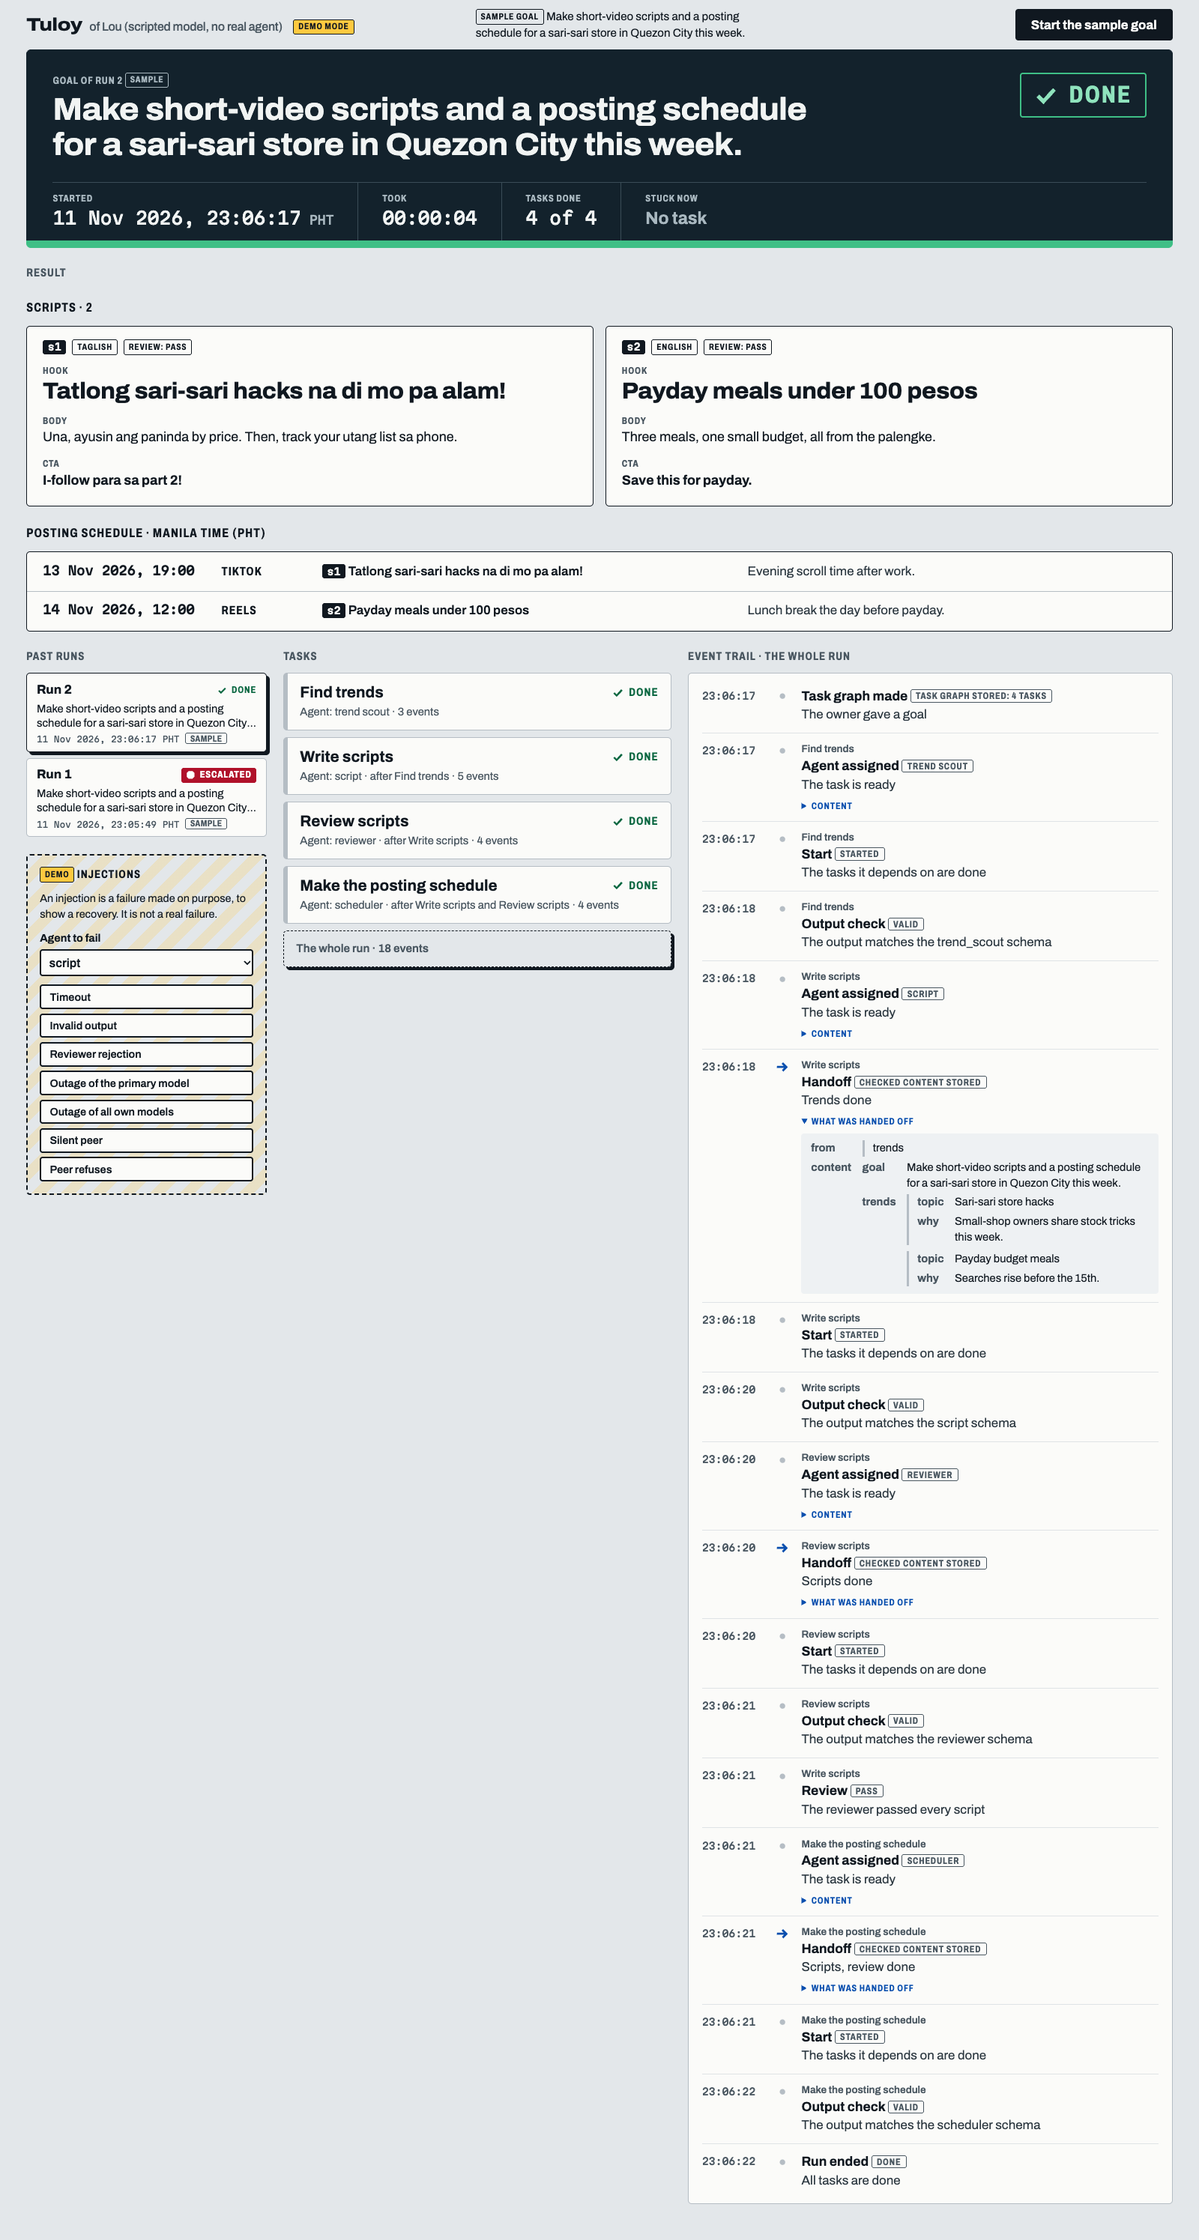
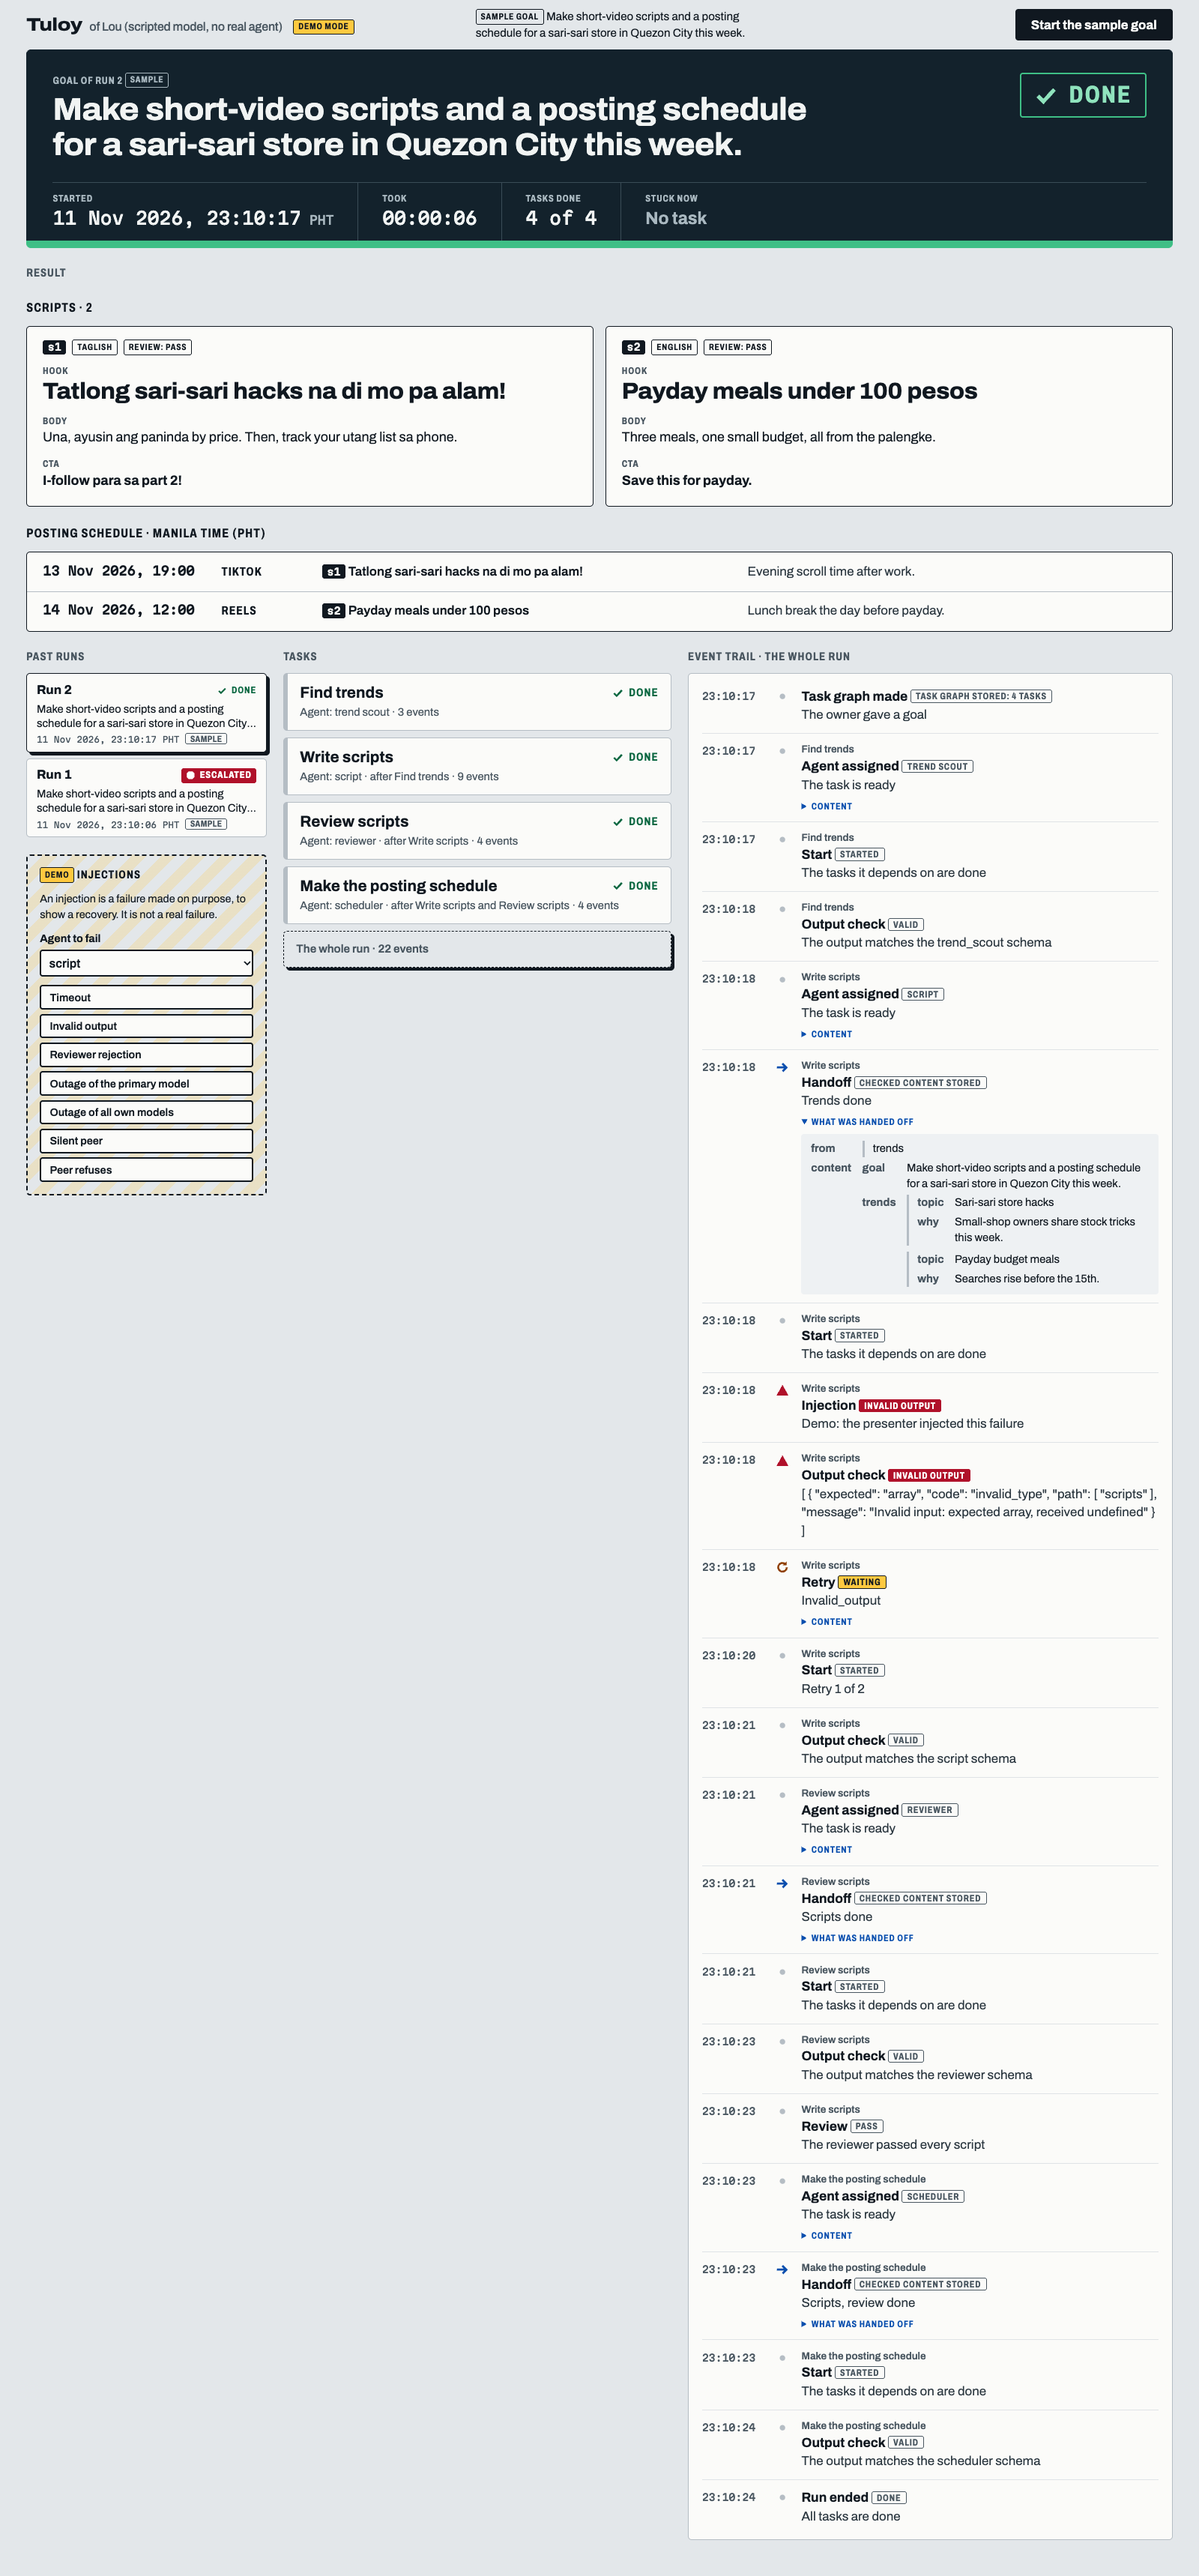
Show escalated, not stalled, on the stopped task of an ended run; screenshots from real runs with an injection

diff --git a/src/page/view.ts b/src/page/view.ts
@@ -22,8 +22,7 @@ const shownWords: Record<string, ShownStatus> = {
 
 /** The plain status word of a task. The server's word wins; without it, the page works the word out from the stored status. */
 export function shownStatus(task: { status: string; shownStatus?: string | null }, runStatus: string): string {
-  if (task.shownStatus) return task.shownStatus;
-  const word = shownWords[task.status] ?? task.status.replaceAll('_', ' ');
+  const word = task.shownStatus || (shownWords[task.status] ?? task.status.replaceAll('_', ' '));
   // A run that ended as escalated has no recovery left: the task that was stuck is where the run stopped.
   return runStatus === 'escalated' && (word === 'stalled' || word === 'recovering' || word === 'running') ? 'escalated' : word;
 }

diff --git a/tests/page-view.test.ts b/tests/page-view.test.ts
@@ -106,3 +106,10 @@ test('retries and re-routes are marked as recovery actions; the whole run shows 
     ['Run ended', 'trouble'],
   ]);
 });
+
+test('a run that ended as escalated has no stalled task: the server word stalled, recovering or running shows as escalated', () => {
+  expect(shownStatus({ status: 'rejected', shownStatus: 'stalled' }, 'escalated')).toBe('escalated');
+  expect(shownStatus({ status: 'recovering', shownStatus: 'recovering' }, 'escalated')).toBe('escalated');
+  expect(shownStatus({ status: 'done', shownStatus: 'done' }, 'escalated')).toBe('done');
+  expect(shownStatus({ status: 'rejected', shownStatus: 'stalled' }, 'running')).toBe('stalled');
+});

diff --git a/docs/screenshots/README.md b/docs/screenshots/README.md
@@ -1,7 +1,9 @@
 # Dashboard screenshots (ticket 7, 11 Nov 2026)
 
-All were made in headless Chrome against `node tests/harness/fake-run-server.ts` (the scripted model; no real model call).
+All are real runs of the conductor, made in headless Chrome against `node tests/harness/fake-run-server.ts`
+(the scripted model answers; no real model call). The owner name on the page says so.
 
-- `done-run.png`, `done-run-whole-trail.png`, `escalated-run.png`, `empty-state.png`, `narrow-layout.png`: real runs of the conductor with the scripted model.
-- `recovering-preview-hand-written-data.png`: NOT a run. The API answers were written by hand to check the fields of the shared contracts
-  (`shownStatus`, `stuckReason`, `forPeer`, injections, event actions that the page does not know). Replace it with a real recovering run after ticket 3.
+- `empty-state.png`: no run yet.
+- `recovering-run.png`: the presenter injected an invalid output at the script agent (demo mode); the task is stalled and waits for retry 1 of 2.
+- `done-run.png`, `done-run-whole-trail.png`: the same run after the retry; one handoff is open in the trail.
+- `escalated-run.png`, `narrow-layout.png`: the reviewer rejected a script and the run ended as escalated.
